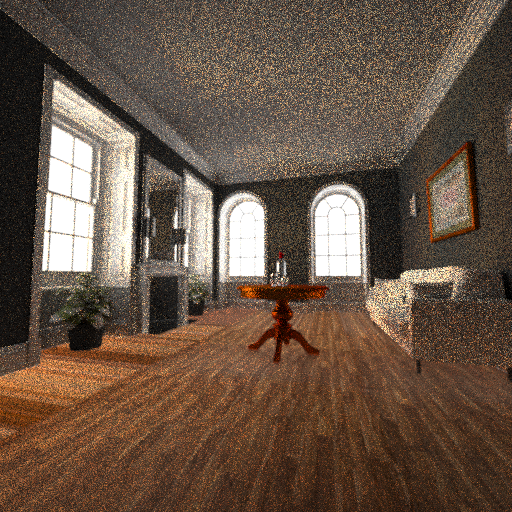
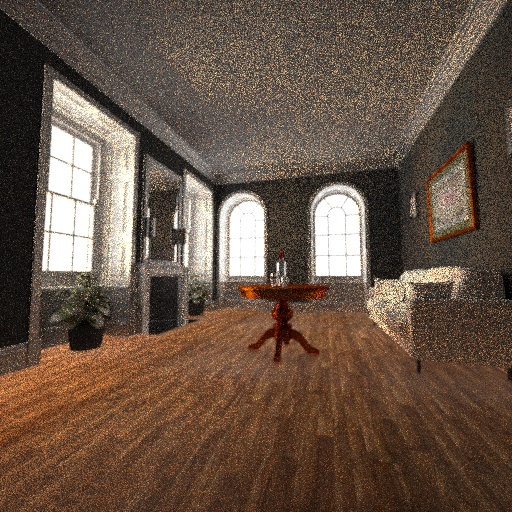
fixed texture wrapping

diff --git a/src/main.cpp b/src/main.cpp
@@ -13,6 +13,8 @@
 int FrameIndex = 0;
 int FrameEnd = 10;
 
+bool batchmode = false;
+
 const char *scene_file;
 
 std::string get_time_string() {
@@ -82,6 +84,8 @@ int display_window(int width, int height, Raytracer &rt) {
       FrameIndex++;
       if (FrameIndex <= FrameEnd) {
         rt.Render(FrameIndex);
+      } else if(batchmode) {
+          window.close();
       }
     }
   }
@@ -96,6 +100,11 @@ const std::string USAGE = "<width> <height> <spp> <tile size> <thread count> "
 int main(int argc, char **argv) {
 
   if (argc == 2) {
+  }
+
+  if (argc == 11) {
+      batchmode = true;
+      argc--;
   }
 
   if (argc != 10) {

diff --git a/src/Rendering/Textures/ImageTexture.h b/src/Rendering/Textures/ImageTexture.h
@@ -30,7 +30,9 @@ public:
     virtual Color Sample(Vector2 uv) const override {
 
         if (wrapMode == TextureWrapMode::Wrap) {
-            uv = { fmodf(uv.x, 1.0), fmodf(uv.y, 1.0) };
+            uv = { std::fmod(uv.x, 1.0f), std::fmod(uv.y, 1.0f) };
+            if (uv.x < 0) uv.x += 1;
+            if (uv.y < 0) uv.y += 1;
         }
 
         uv.Clamp(Vector2(0, 0), Vector2(1, 1));
